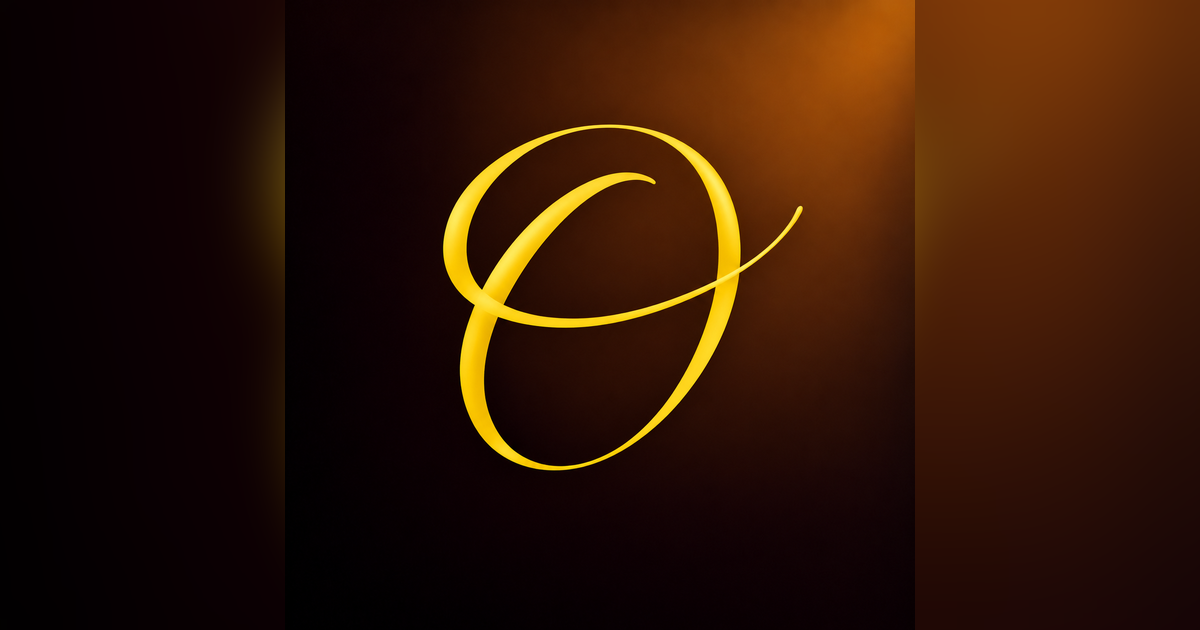
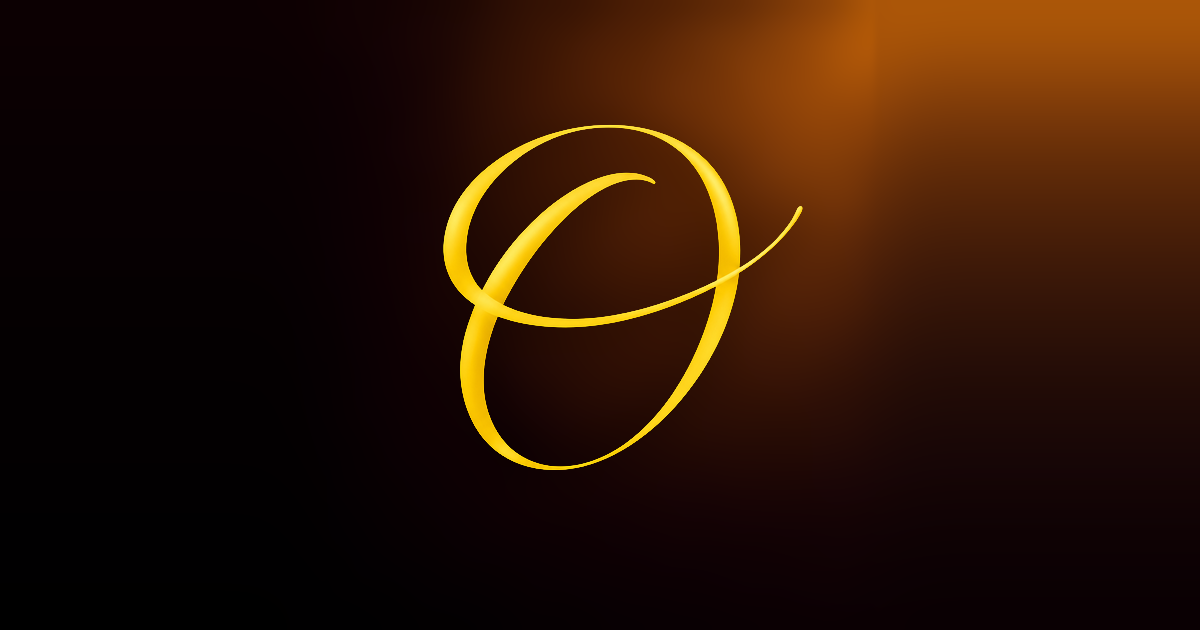
Image de partage : fond continu
Claude-Session: https://claude.ai/code/session_01EagZvaTAKoxDiQGEPvrEp4

Changed region(s): [[0.74, 0.3317, 0.8942, 0.9048], [0.74, 0.0, 1.0, 0.2714], [0.185, 0.0905, 0.2467, 0.7841]]

diff --git a/index.html b/index.html
@@ -14,7 +14,7 @@
 <meta property="og:type" content="website">
 <meta property="og:title" content="Orée">
 <meta property="og:description" content="Un moment pour respirer, tirer une carte, écouter ou déposer quelques mots.">
-<meta property="og:image" content="https://ludmillaenergie.github.io/oree/icons/share.png">
+<meta property="og:image" content="https://ludmillaenergie.github.io/oree/icons/share-2.png">
 <meta property="og:url" content="https://ludmillaenergie.github.io/oree/">
 <meta name="twitter:card" content="summary_large_image">
 <link rel="preconnect" href="https://fonts.googleapis.com">
